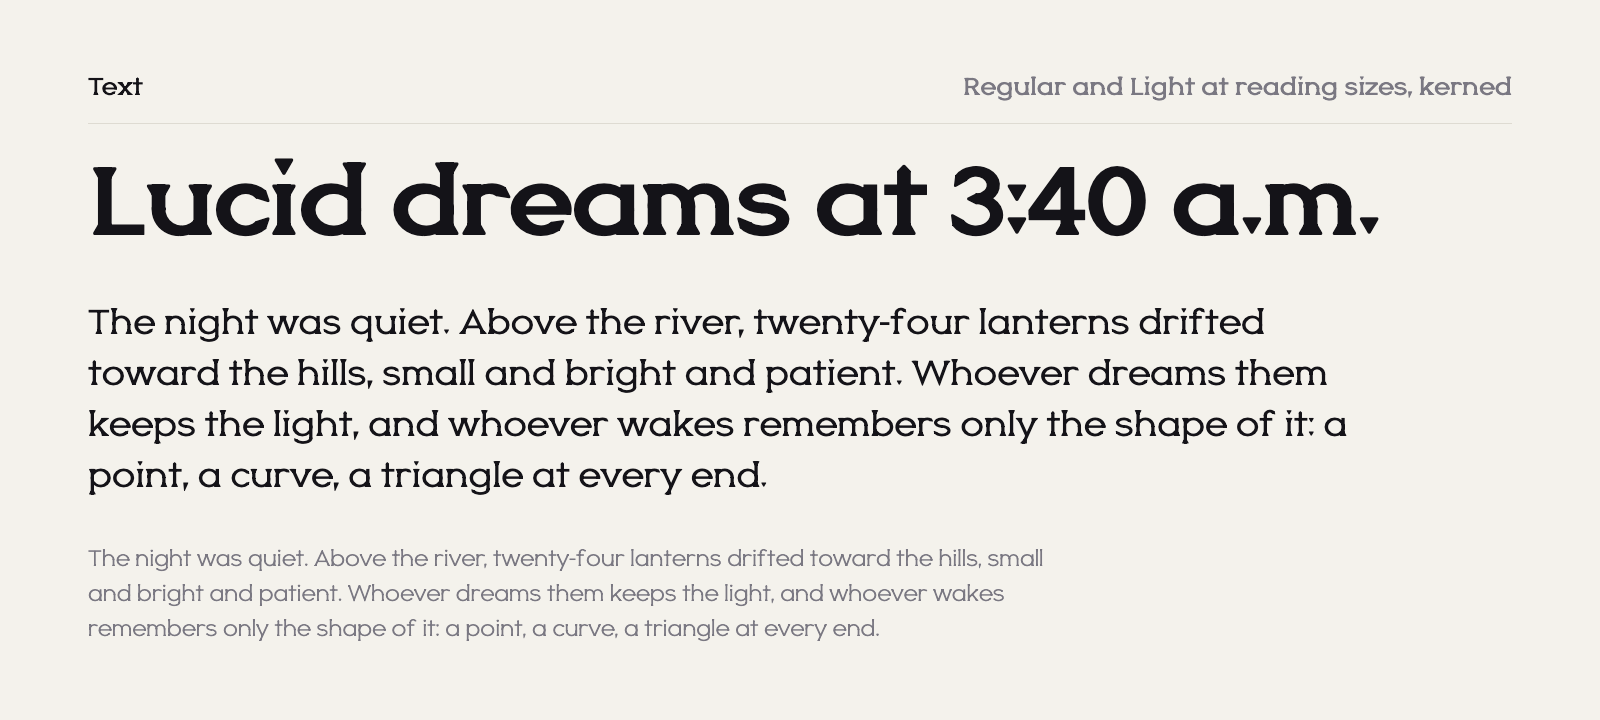
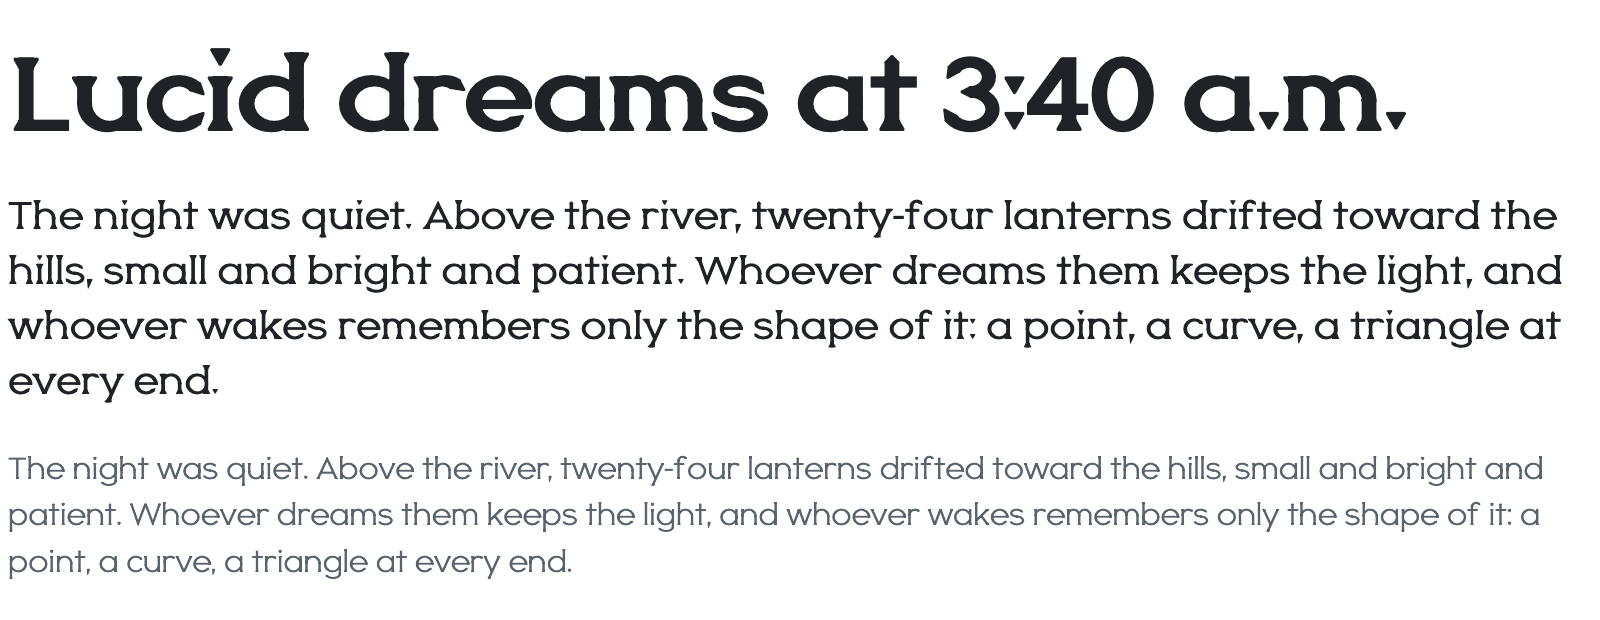
README as a specimen page: weight and Lucidity panels, transparent images for both themes, install and web use

diff --git a/tools/readme_images.py b/tools/readme_images.py
@@ -1,6 +1,8 @@
 """README images, rendered by headless Chromium from the variable font.
 usage: readme_images.py [OUTDIR]   (default docs/images)
-Writes NAME-dark.png and NAME-light.png for each panel."""
+Writes NAME-dark.png and NAME-light.png for each panel. Backgrounds are
+transparent and the ink matches GitHub's text colours, so each image sits on
+the page in either theme with no frame."""
 
 import subprocess
 import sys
@@ -14,8 +16,8 @@ TMP = Path("/tmp/oneira-proof")
 W = 1600
 
 THEMES = {
-    "dark": {"bg": "#0d0c12", "fg": "#ecebe6", "dim": "#7d7b88", "rule": "#24232c"},
-    "light": {"bg": "#f4f2ec", "fg": "#141318", "dim": "#7a7882", "rule": "#dedbd2"},
+    "dark": {"fg": "#e6edf3", "dim": "#9198a1"},
+    "light": {"fg": "#1f2328", "dim": "#59636e"},
 }
 
 
@@ -27,29 +29,26 @@ def hero():
     word = "Oneira"
     letters = "".join(f'<span style="{v(820, round(100 * i / (len(word) - 1)))}">{c}</span>'
                       for i, c in enumerate(word))
-    return 560, f"""
-<div class=hero>{letters}</div>
-<div class=foot><span>A variable typeface where every stroke ends in the same triangle</span>
-<span>Lucidity 0 &rarr; 100</span></div>"""
+    return 420, f"<div class=hero>{letters}</div>"
 
 
-def axes():
-    cells = []
-    for l in (0, 50, 100):
-        for w in (100, 400, 900):
-            cells.append(f'<div class=cell><div class=g style="{v(w, l)}">Ag</div>'
-                         f'<div class=lab>wght {w} &middot; LUCD {l}</div></div>')
-    return 1190, f"""
-<div class=head><span>Two axes</span><span>Weight 100 to 900, Lucidity 0 (dream) to 100 (lucid)</span></div>
-<div class=grid>{"".join(cells)}</div>"""
+def weight():
+    cells = "".join(f'<div><div class=wg style="{v(w, 100)}">Ag</div><div class=lab>{w}</div></div>'
+                    for w in range(100, 1000, 100))
+    return 300, f"<div class=wrow>{cells}</div>"
+
+
+def lucidity():
+    cells = "".join(f'<div><div class=lg style="{v(800, l)}">ri&rsquo;s</div><div class=lab>{l}</div></div>'
+                    for l in (0, 25, 50, 75, 100))
+    return 360, f"<div class=lrow>{cells}</div>"
 
 
 def rule():
-    return 620, f"""
-<div class=head><span>The one rule</span><span>Stems stand on wedges, curves end in tips, the dot is the triangle</span></div>
+    return 440, f"""
 <div class=pair>
-  <div><div class=rbig style="{v(900, 0)}">nij&rsquo;s</div><div class=lab>Dream &middot; LUCD 0 &middot; round caps</div></div>
-  <div><div class=rbig style="{v(900, 100)}">nij&rsquo;s</div><div class=lab>Lucid &middot; LUCD 100 &middot; triangles</div></div>
+  <div><div class=rbig style="{v(900, 0)}">nij&rsquo;s</div><div class=lab>Dream, round ends</div></div>
+  <div><div class=rbig style="{v(900, 100)}">nij&rsquo;s</div><div class=lab>Lucid, triangles</div></div>
 </div>"""
 
 
@@ -57,8 +56,7 @@ def text():
     para = ("The night was quiet. Above the river, twenty-four lanterns drifted toward the hills, "
             "small and bright and patient. Whoever dreams them keeps the light, and whoever wakes "
             "remembers only the shape of it: a point, a curve, a triangle at every end.")
-    return 720, f"""
-<div class=head><span>Text</span><span>Regular and Light at reading sizes, kerned</span></div>
+    return 620, f"""
 <div class=t1 style="{v(700, 100)}">Lucid dreams at 3:40 a.m.</div>
 <div class=t2 style="{v(400, 100)}">{para}</div>
 <div class=t3 style="{v(300, 40)}">{para}</div>"""
@@ -76,33 +74,30 @@ def charset():
             ".,:;&hellip;!?&iexcl;&iquest; &lsquo;&rsquo;&ldquo;&rdquo;&laquo;&raquo; ()[]{} "
             "+&minus;&times;&divide;=&plusmn;&lt;&gt; &copy;&reg;&sect;&para;&deg;&micro;"]
     body = "".join(f'<div class=cs style="{v(500, 100)}">{r}</div>' for r in rows)
-    return 780, f"""<div class=head><span>Character set</span><span>Basic Latin and Latin-1, 218 glyphs</span></div>{body}"""
+    return 560, body
 
 
-PANELS = {"hero": hero, "axes": axes, "rule": rule, "text": text, "charset": charset}
+PANELS = {"hero": hero, "weight": weight, "lucidity": lucidity, "rule": rule,
+          "text": text, "charset": charset}
 
 CSS = """
 @font-face{{font-family:O;src:url('file://{vf}')}}
 *{{margin:0;box-sizing:border-box}}
-body{{width:{w}px;height:{h}px;background:{bg};color:{fg};font-family:O;padding:72px 88px;
+html,body{{background:transparent}}
+body{{width:{w}px;height:{h}px;color:{fg};font-family:O;padding:40px 8px;
   display:flex;flex-direction:column;overflow:hidden;font-kerning:normal}}
-.head{{display:flex;justify-content:space-between;align-items:baseline;padding-bottom:22px;
-  border-bottom:1px solid {rule};margin-bottom:28px;font-size:24px;{lab}}}
-.head span:last-child{{color:{dim}}}
-.lab{{font-size:19px;color:{dim};letter-spacing:0.01em;{lab}}}
-.hero{{font-size:340px;line-height:1;letter-spacing:-0.025em;margin:auto 0 0 -14px}}
-.foot{{display:flex;justify-content:space-between;margin-top:42px;padding-top:22px;
-  border-top:1px solid {rule};font-size:24px;color:{dim};{lab}}}
-.grid{{display:grid;grid-template-columns:repeat(3,1fr);gap:0;flex:1}}
-.cell{{border-top:1px solid {rule};padding:10px 0 28px}}
-.cell:nth-child(-n+3){{border-top:0;padding-top:0}}
-.g{{font-size:184px;line-height:1.36;letter-spacing:-0.02em}}
+.lab{{font-size:40px;margin-top:8px;color:{dim};{lab}}}
+.hero{{font-size:400px;line-height:1;letter-spacing:-0.025em;margin:auto 0 0 -12px}}
+.wrow{{display:grid;grid-template-columns:repeat(9,1fr);flex:1;align-items:end}}
+.wg{{font-size:96px;line-height:1.3;letter-spacing:-0.02em}}
+.lrow{{display:grid;grid-template-columns:repeat(5,1fr);flex:1;align-items:end}}
+.lg{{font-size:168px;line-height:1.2;letter-spacing:-0.02em}}
 .pair{{display:grid;grid-template-columns:1fr 1fr;gap:48px;flex:1;align-items:end}}
 .rbig{{font-size:250px;line-height:1.05;letter-spacing:-0.02em;margin-bottom:18px}}
-.t1{{font-size:96px;line-height:1.05;letter-spacing:-0.02em;margin-bottom:44px}}
-.t2{{font-size:34px;line-height:1.5;max-width:1260px;margin-bottom:40px}}
-.t3{{font-size:22px;line-height:1.6;max-width:980px;color:{dim}}}
-.cs{{font-size:58px;line-height:1.42;letter-spacing:0.01em;white-space:nowrap}}
+.t1{{font-size:104px;line-height:1.05;letter-spacing:-0.02em;margin-bottom:40px}}
+.t2{{font-size:38px;line-height:1.45;margin-bottom:36px}}
+.t3{{font-size:30px;line-height:1.55;color:{dim}}}
+.cs{{font-size:60px;line-height:1.42;letter-spacing:0.01em;white-space:nowrap}}
 """
 
 
@@ -114,9 +109,10 @@ def render(name, theme, out):
     page = TMP / f"readme-{name}-{theme}.html"
     page.write_text(f"<html><head><style>{css}</style></head><body>{body}</body></html>")
     subprocess.run([str(CHROME), "--headless", "--disable-gpu", "--hide-scrollbars",
-                    "--force-device-scale-factor=1", f"--user-data-dir={TMP / 'ud'}",
-                    f"--screenshot={out.resolve()}", f"--window-size={W},{h}",
-                    "--allow-file-access-from-files", f"file://{page}"], capture_output=True, check=True)
+                    "--force-device-scale-factor=1", "--default-background-color=00000000",
+                    f"--user-data-dir={TMP / 'ud'}", f"--screenshot={out.resolve()}",
+                    f"--window-size={W},{h}", "--allow-file-access-from-files", f"file://{page}"],
+                   capture_output=True, check=True)
 
 
 def main():

diff --git a/README.md b/README.md
@@ -5,23 +5,69 @@
 
 # Oneira
 
-Oneira is an open-source variable typeface with one rule: every stroke ends in the same triangle. Straight stems stand on equilateral wedges. Curves end in 60 degree tips. The dot on the i is the triangle itself.
-
-A second axis, **Lucidity**, takes the face from dream to waking. At 0 it is a soft, rounded geometric sans. At 100 the triangles have grown in and the corners tighten. Weight runs from Thin to Black.
+**A variable typeface where every stroke ends in the same triangle.** Stems stand on equilateral wedges, curves end in 60 degree tips, and the dot on the i is the triangle itself. Two axes: **Weight** from Thin 100 to Black 900, and **Lucidity**, from 0 (dream) to 100 (lucid).
 
 The name comes from the Greek *oneiros*, dream.
 
+<p>
+  <a href="https://github.com/abhaymettu/oneira/archive/refs/heads/main.zip"><b>Download</b></a> ·
+  <a href="#use-it-on-the-web">Use on the web</a> ·
+  <a href="#build-from-source">Build from source</a> ·
+  <a href="OFL.txt">SIL OFL 1.1</a>
+</p>
+
+## Weight
+
+Nine named weights, and every value between them.
+
 <picture>
-  <source media="(prefers-color-scheme: dark)" srcset="docs/images/axes-dark.png">
-  <img alt="A three by three grid of Ag, weight across and Lucidity down" src="docs/images/axes-light.png">
+  <source media="(prefers-color-scheme: dark)" srcset="docs/images/weight-dark.png">
+  <img alt="Ag set at weights 100 through 900" src="docs/images/weight-light.png">
 </picture>
 
-## Axes
+## Lucidity
 
-| Axis | Tag | Range | Default |
-| --- | --- | --- | --- |
-| Weight | `wght` | 100 to 900 | 400 |
-| Lucidity | `LUCD` | 0 (dream) to 100 (lucid) | 100 |
+At 0 Oneira is a soft, rounded geometric sans. Move toward 100 and the triangles grow in and the corners tighten.
+
+<picture>
+  <source media="(prefers-color-scheme: dark)" srcset="docs/images/lucidity-dark.png">
+  <img alt="ri's set at Lucidity 0, 25, 50, 75 and 100" src="docs/images/lucidity-light.png">
+</picture>
+
+<picture>
+  <source media="(prefers-color-scheme: dark)" srcset="docs/images/rule-dark.png">
+  <img alt="nij's in the dream state with round ends, and lucid with triangles" src="docs/images/rule-light.png">
+</picture>
+
+## In text
+
+<picture>
+  <source media="(prefers-color-scheme: dark)" srcset="docs/images/text-dark.png">
+  <img alt="A headline in Bold, a paragraph in Regular and a smaller paragraph in Light" src="docs/images/text-light.png">
+</picture>
+
+## Character set
+
+218 characters covering Basic Latin and Latin-1: every Latin-1 accented letter, Æ Ø Ð Þ ß, currency, fractions, superiors and ordinals. Accents are built from real components. Kerning is class based and scales with weight.
+
+<picture>
+  <source media="(prefers-color-scheme: dark)" srcset="docs/images/charset-dark.png">
+  <img alt="The character set" src="docs/images/charset-light.png">
+</picture>
+
+## Install
+
+[Download the repository](https://github.com/abhaymettu/oneira/archive/refs/heads/main.zip) and open the `fonts` folder.
+
+| Folder | What is in it |
+| --- | --- |
+| `fonts/variable` | `Oneira[LUCD,wght].ttf`, both axes in one file |
+| `fonts/static` | Nine weights of **Oneira** (lucid) and nine of **Oneira Dream** |
+| `fonts/webfonts` | WOFF2 of all of the above |
+
+For desktop apps, install the variable TTF. Apps that do not handle variable fonts can use the static files.
+
+## Use it on the web
 
 ```css
 @font-face {
@@ -30,50 +76,34 @@ The name comes from the Greek *oneiros*, dream.
   font-weight: 100 900;
 }
 
-h1 { font-family: "Oneira"; font-weight: 800; font-variation-settings: "LUCD" 100; }
-.dreamy { font-variation-settings: "LUCD" 0; }
+h1 {
+  font-family: "Oneira";
+  font-weight: 800;
+  font-variation-settings: "LUCD" 100;
+}
+
+.dream {
+  font-variation-settings: "LUCD" 0;
+}
 ```
 
-Lucidity is a custom axis, so set it with `font-variation-settings`. It animates well: a transition on `font-variation-settings` lets text wake up on hover or on scroll.
+Lucidity is a custom axis, so set it with `font-variation-settings`. It animates well: put a transition on `font-variation-settings` and text can wake up on hover or on scroll.
 
-<picture>
-  <source media="(prefers-color-scheme: dark)" srcset="docs/images/rule-dark.png">
-  <img alt="The same word in the dream state with round ends, and lucid with triangles" src="docs/images/rule-light.png">
-</picture>
+| Axis | Tag | Range | Default |
+| --- | --- | --- | --- |
+| Weight | `wght` | 100 to 900 | 400 |
+| Lucidity | `LUCD` | 0 to 100 | 100 |
 
-## Text
+## Build from source
 
-<picture>
-  <source media="(prefers-color-scheme: dark)" srcset="docs/images/text-dark.png">
-  <img alt="A headline and two paragraphs set in Oneira" src="docs/images/text-light.png">
-</picture>
-
-## Character set
-
-Basic Latin and Latin-1: 218 glyphs, including every Latin-1 accented letter, Æ Ø Ð Þ ß, currency, fractions, superiors and ordinals. Accented letters are built from real components. Kerning is class based and scales with weight.
-
-<picture>
-  <source media="(prefers-color-scheme: dark)" srcset="docs/images/charset-dark.png">
-  <img alt="The full character set" src="docs/images/charset-light.png">
-</picture>
-
-## Files
-
-| Folder | What is in it |
-| --- | --- |
-| `fonts/variable` | `Oneira[LUCD,wght].ttf`, both axes in one file |
-| `fonts/static` | Nine weights of **Oneira** (lucid) and nine of **Oneira Dream**, overlaps removed |
-| `fonts/webfonts` | WOFF2 of all of the above |
-
-## How it is made
-
-Nothing here was drawn by hand in a font editor. Every glyph is Python: a few primitives (stems, bowls, arcs, the wedge, the tip) and a stroke model that knows how heavy a stem, a bar and a diagonal should be at any weight. The same code draws six masters, Thin, Regular and Black at both ends of Lucidity, and fontmake interpolates between them.
+No glyph here was drawn by hand in a font editor. Every glyph is Python: a few primitives (stems, bowls, arcs, the wedge, the tip) and a stroke model that knows how heavy a stem, a bar and a diagonal should be at any weight. The code draws six masters, Thin, Regular and Black at both ends of Lucidity, and fontmake interpolates between them.
 
 ```sh
 python -m venv .venv && .venv/bin/pip install fontmake ufoLib2 brotli fontbakery
 .venv/bin/python tools/build.py            # masters and the variable font
 .venv/bin/python tools/build.py --release  # plus static fonts and WOFF2
 .venv/bin/python tools/proof.py out.png "Hamburgefonts"   # proof in Chromium
+.venv/bin/python tools/readme_images.py    # the images on this page
 ```
 
 The design rules every glyph is checked against are in [DESIGN.md](DESIGN.md). Notes for contributors and coding agents are in [AGENTS.md](AGENTS.md).
@@ -81,3 +111,5 @@ The design rules every glyph is checked against are in [DESIGN.md](DESIGN.md). N
 ## License
 
 Oneira is licensed under the [SIL Open Font License 1.1](OFL.txt). Use it in anything, commercial work included. You can modify it and share your version, as long as you keep it under the same license and do not sell the font files on their own.
+
+Made by [Abhay Mettu](https://github.com/abhaymettu).
